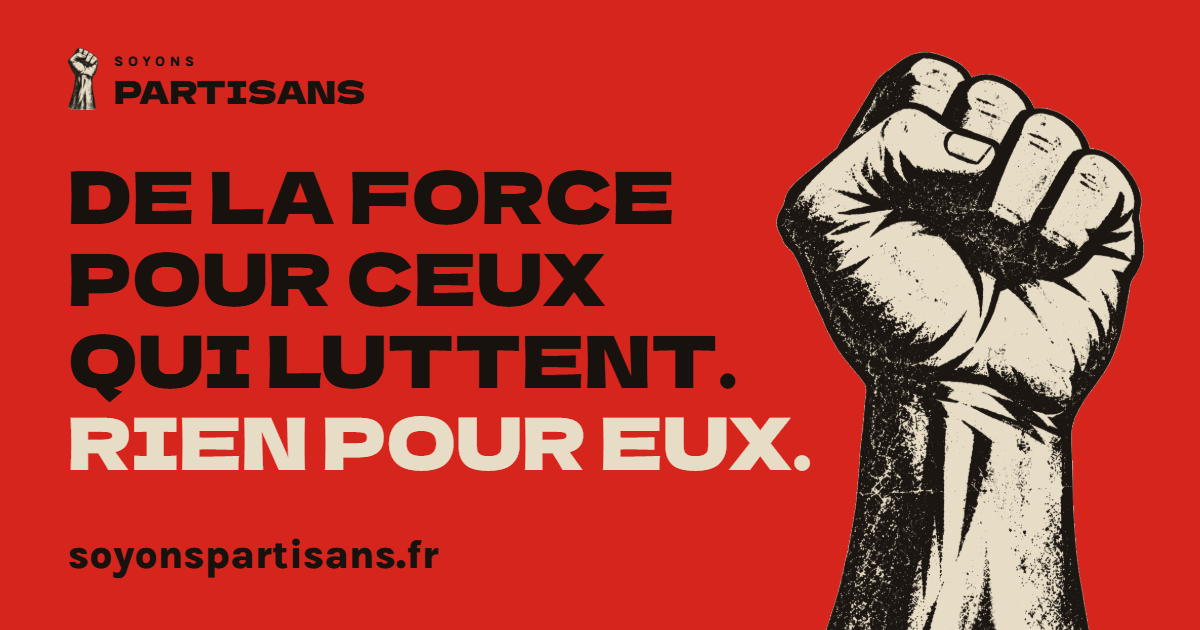
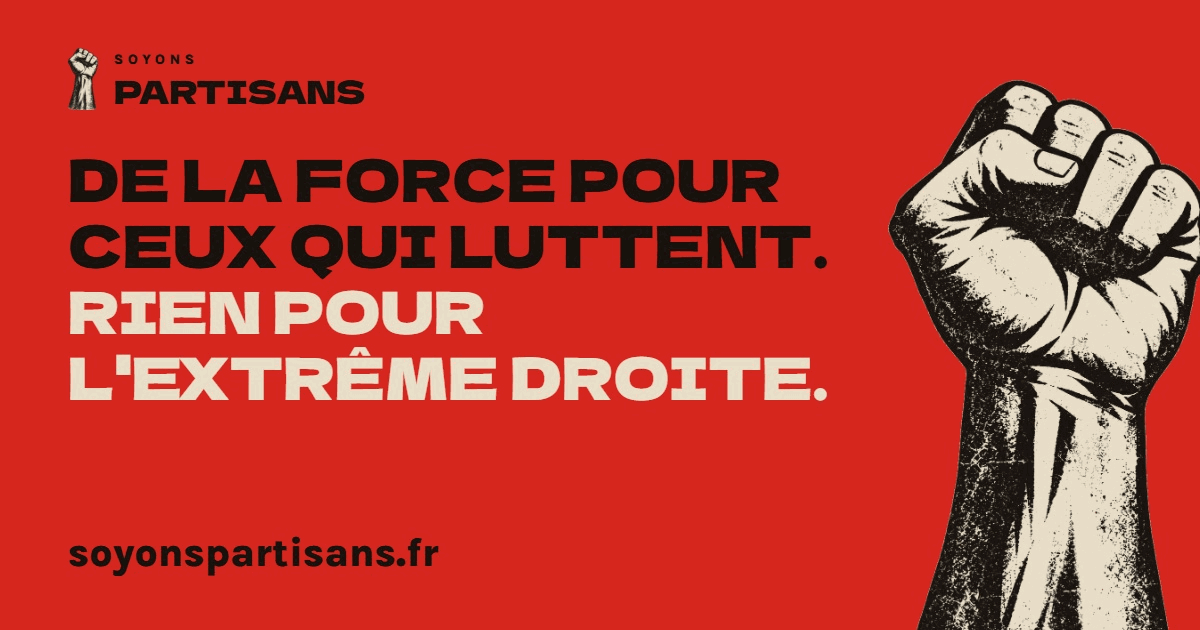
Aperçu du lien au nouveau slogan

diff --git a/scripts/preparer-visuels.py b/scripts/preparer-visuels.py
@@ -147,7 +147,7 @@ def main(handoff):
         save(open_clean(source(path)), icons / name, optimize=True)
     save(open_clean(source('assets/favicon/icon-512.png')).resize((192, 192), Image.LANCZOS), icons / 'icon-192.png', optimize=True)
 
-    preview = open_clean(source('complements/partage.png')).convert('RGB')
+    preview = open_clean(source('visuels-jpg-2/partage.jpg')).convert('RGB')
     save(preview.quantize(256, method=Image.Quantize.FASTOCTREE), SITE / 'partage.png', optimize=True)
 
     for path in outputs:
